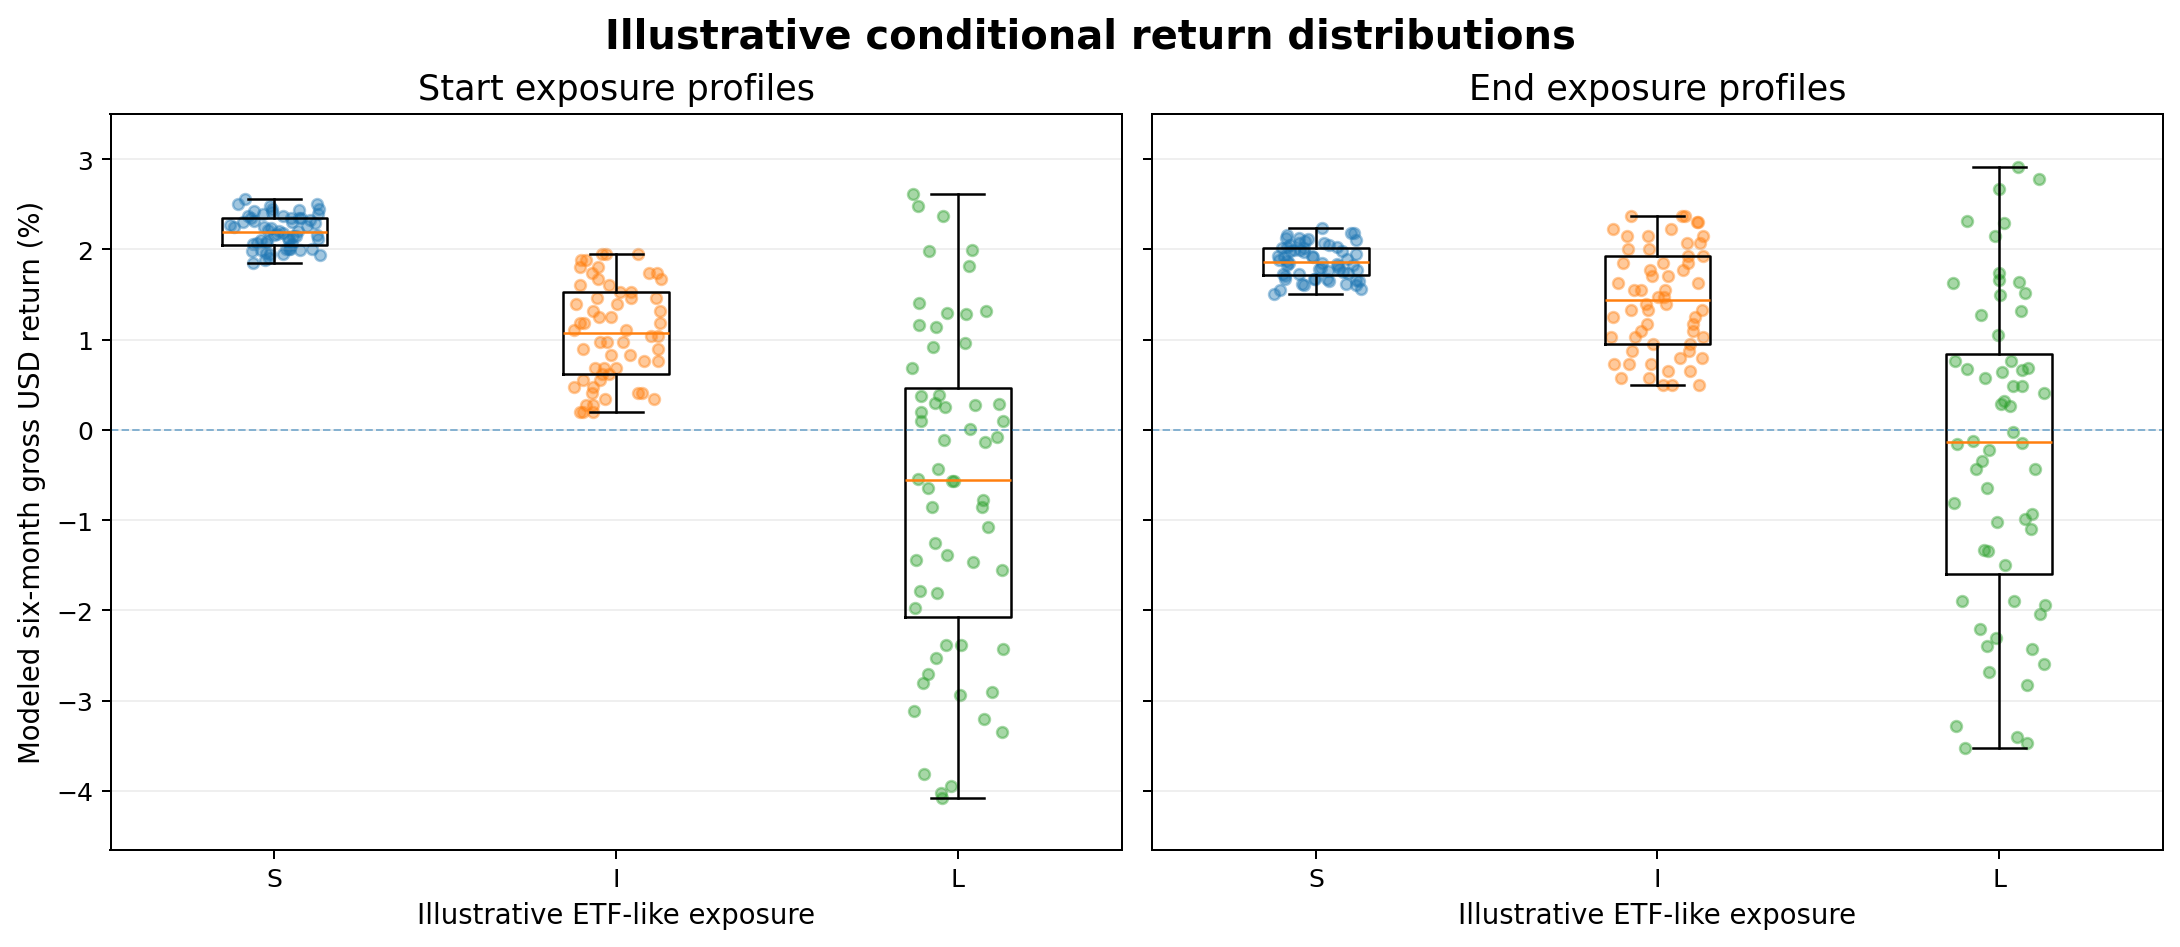
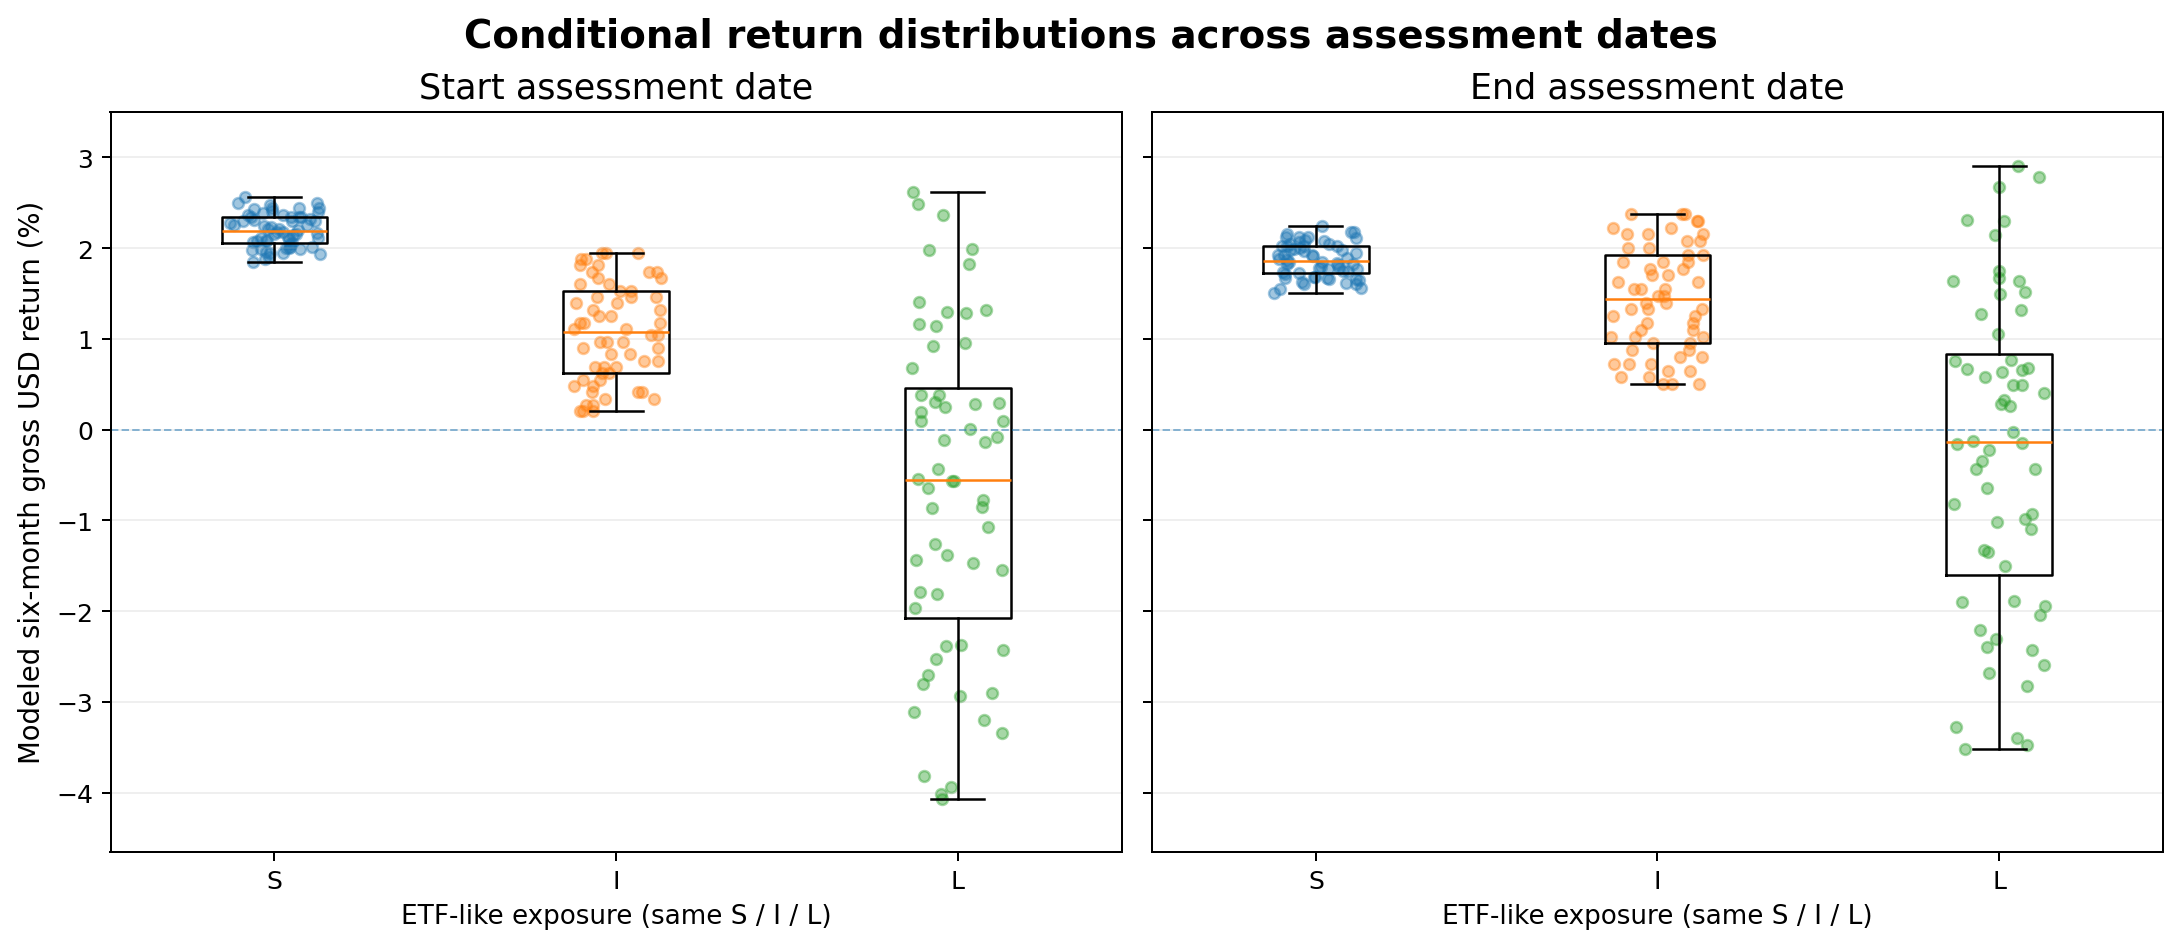
update analysis 2 example

diff --git a/docs/bond_etf_decision_examples.md b/docs/bond_etf_decision_examples.md
@@ -97,15 +97,17 @@ Each dot represents one complete joint yield-change scenario evaluated for one e
 
 #### B. Supporting result — compensation and yield-rise resilience
 
+![Start-to-End trajectories of indexed six-month compensation and zero-return break-even yield rise for the S, I and L exposures.](assets/analysis2_compensation_break_even_start_end.png)
+
 | Exposure | Start compensation | End compensation | Start break-even yield rise | End break-even yield rise |
 |---|---:|---:|---:|---:|
 | **S — Short** | +2.28% | +1.95% | +126.4 bp | +105.4 bp |
 | **I — Intermediate** | +2.30% | +2.75% | +32.9 bp | +36.7 bp |
 | **L — Long** | +2.50% | +2.80% | +15.8 bp | +18.4 bp |
 
-**What the investor learns.** S's modeled yield-based compensation and zero-return break-even cushion decrease between Start and End, while I's increase. That helps explain I's improved position in the return distributions. L also gains compensation, but its much greater duration leaves it more sensitive to adverse yield moves. Break-even levels are **within-exposure** zero-return conditions, not yield thresholds at which two exposures have equal returns; their absolute cross-tenor differences are strongly influenced by duration.
+**What the investor learns.** Each exposure begins at (100, 100), indexing its own Start compensation and break-even yield rise separately. The trajectories show **within-exposure changes**, not absolute cross-exposure rankings. S's modeled yield-based compensation and zero-return break-even cushion decrease between Start and End, while I's increase. That helps explain I's improved position in the return distributions. L also gains compensation, but its much greater duration leaves it more sensitive to adverse yield moves. Break-even levels are **within-exposure** zero-return conditions, not yield thresholds at which two exposures have equal returns; their absolute cross-tenor differences are strongly influenced by duration.
 
-#### C. Inputs, calculations and reproduction
+#### Inputs, calculations and reproduction
 
 **Exposure profiles.** The two sets of constructed cash-Treasury exposure characteristics are applied separately to the same joint yield-change scenarios:
 
@@ -119,7 +121,7 @@ Each dot represents one complete joint yield-change scenario evaluated for one e
 
 **Return calculation.** For each exposure/profile and each matched scenario, modeled six-month return is approximated by `portfolio YTM × 0.5 − duration × matched tenor yield change (decimal)`. This first-order expression combines yield-based compensation with the local duration price effect, without added convexity, roll-down or portfolio-rebalancing effects. The results are **modeled gross USD cash-bond exposure returns**, not actual ETF returns or realized returns between Start and End. Applying common shocks to both dated profiles isolates the effect of their different YTM/duration assumptions.
 
-**Compensation and break-even calculation.** Six-month compensation is `portfolio YTM × 0.5`. The first-order zero-return break-even yield rise (bp) is `10,000 × compensation / duration` for the exposure's matched yield. All plots, medians, interquartile ranges and scenario-paired comparisons use the same constructed profile inputs and complete yield-change vectors.
+**Compensation and break-even calculation.** Six-month compensation is `portfolio YTM × 0.5`. The first-order zero-return break-even yield rise (bp) is `10,000 × compensation / duration` for the exposure's matched yield. The supporting plot indexes both quantities separately to 100 at Start for each exposure and connects Start with End; the table retains absolute values. All plots, medians, interquartile ranges and scenario-paired comparisons use the same constructed profile inputs and complete yield-change vectors.
 
 ### 2.3 Analyses awaiting examples
 
